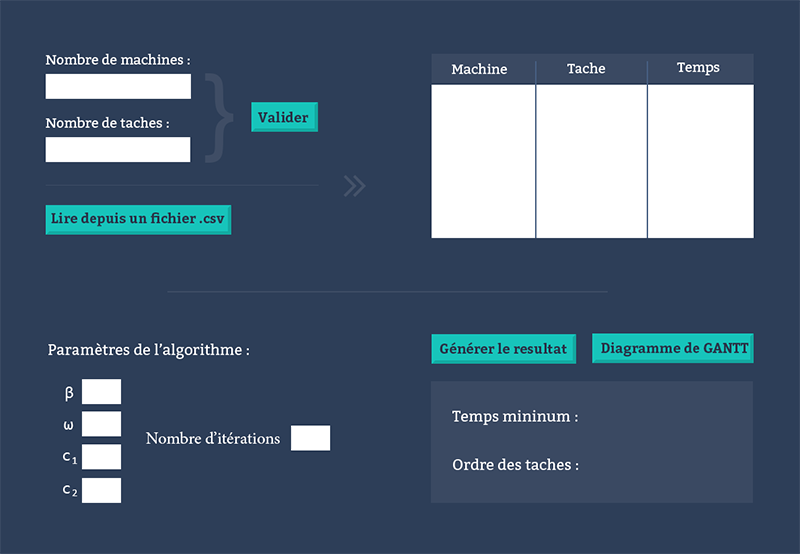
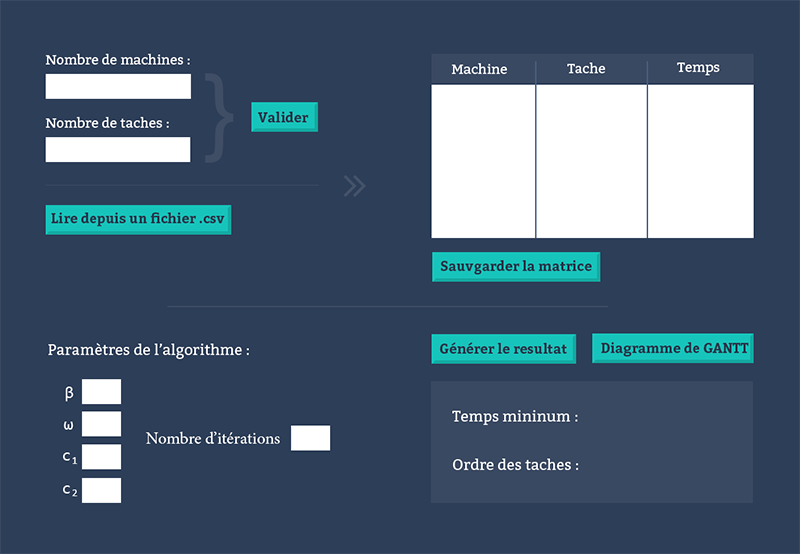
customize export button

Changed region(s): [[0.5312, 0.4296, 0.75, 0.5217]]

diff --git a/src/particleswarm/MainFrame.java b/src/particleswarm/MainFrame.java
@@ -181,13 +181,13 @@ public class MainFrame extends javax.swing.JFrame {
         });
         getContentPane().add(nbIterationsField, new org.netbeans.lib.awtextra.AbsoluteConstraints(300, 430, 30, -1));
 
-        saveMatrice.setText("save");
+        saveMatrice.setCursor(new java.awt.Cursor(java.awt.Cursor.HAND_CURSOR));
         saveMatrice.addMouseListener(new java.awt.event.MouseAdapter() {
             public void mouseClicked(java.awt.event.MouseEvent evt) {
                 saveMatriceMouseClicked(evt);
             }
         });
-        getContentPane().add(saveMatrice, new org.netbeans.lib.awtextra.AbsoluteConstraints(450, 250, -1, -1));
+        getContentPane().add(saveMatrice, new org.netbeans.lib.awtextra.AbsoluteConstraints(430, 250, 170, 30));
 
         tempsMinLabel.setFont(new java.awt.Font("Bitter", 0, 14)); // NOI18N
         tempsMinLabel.setForeground(new java.awt.Color(255, 255, 255));
